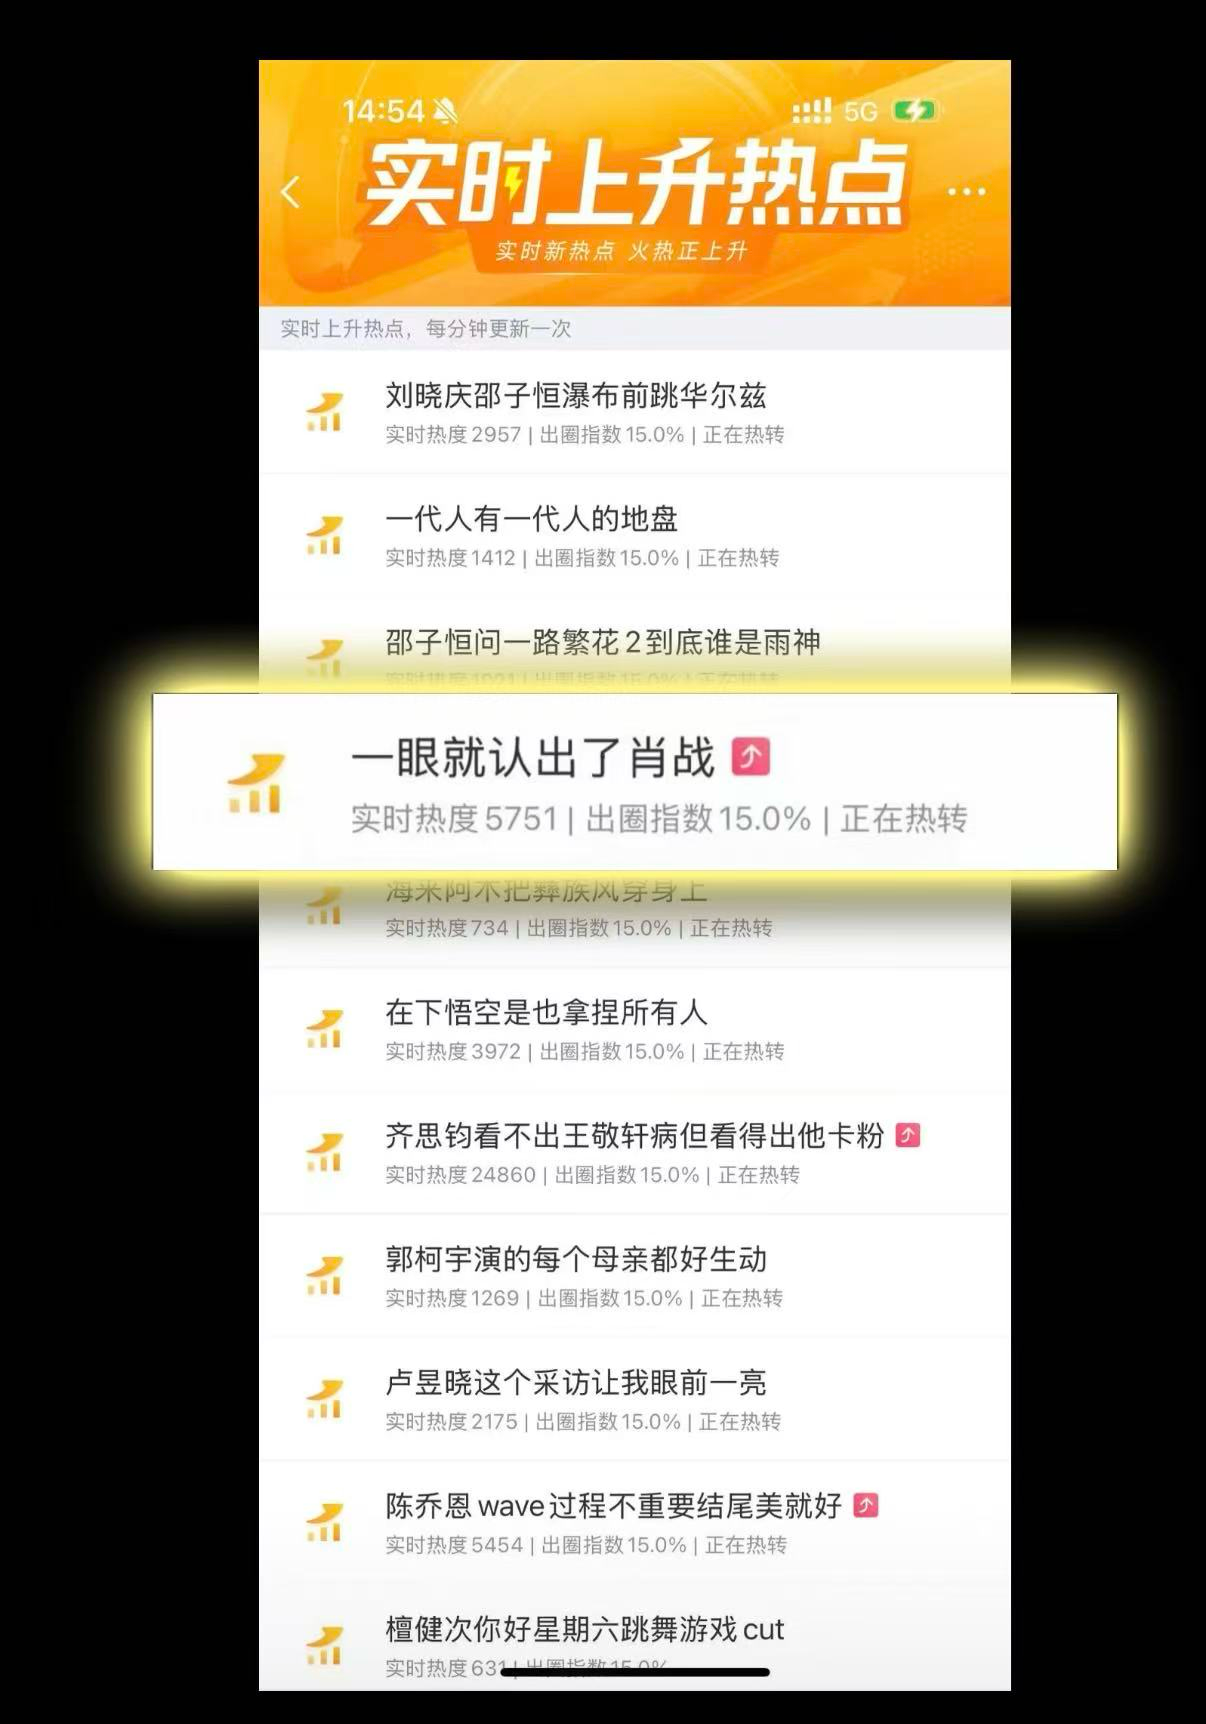
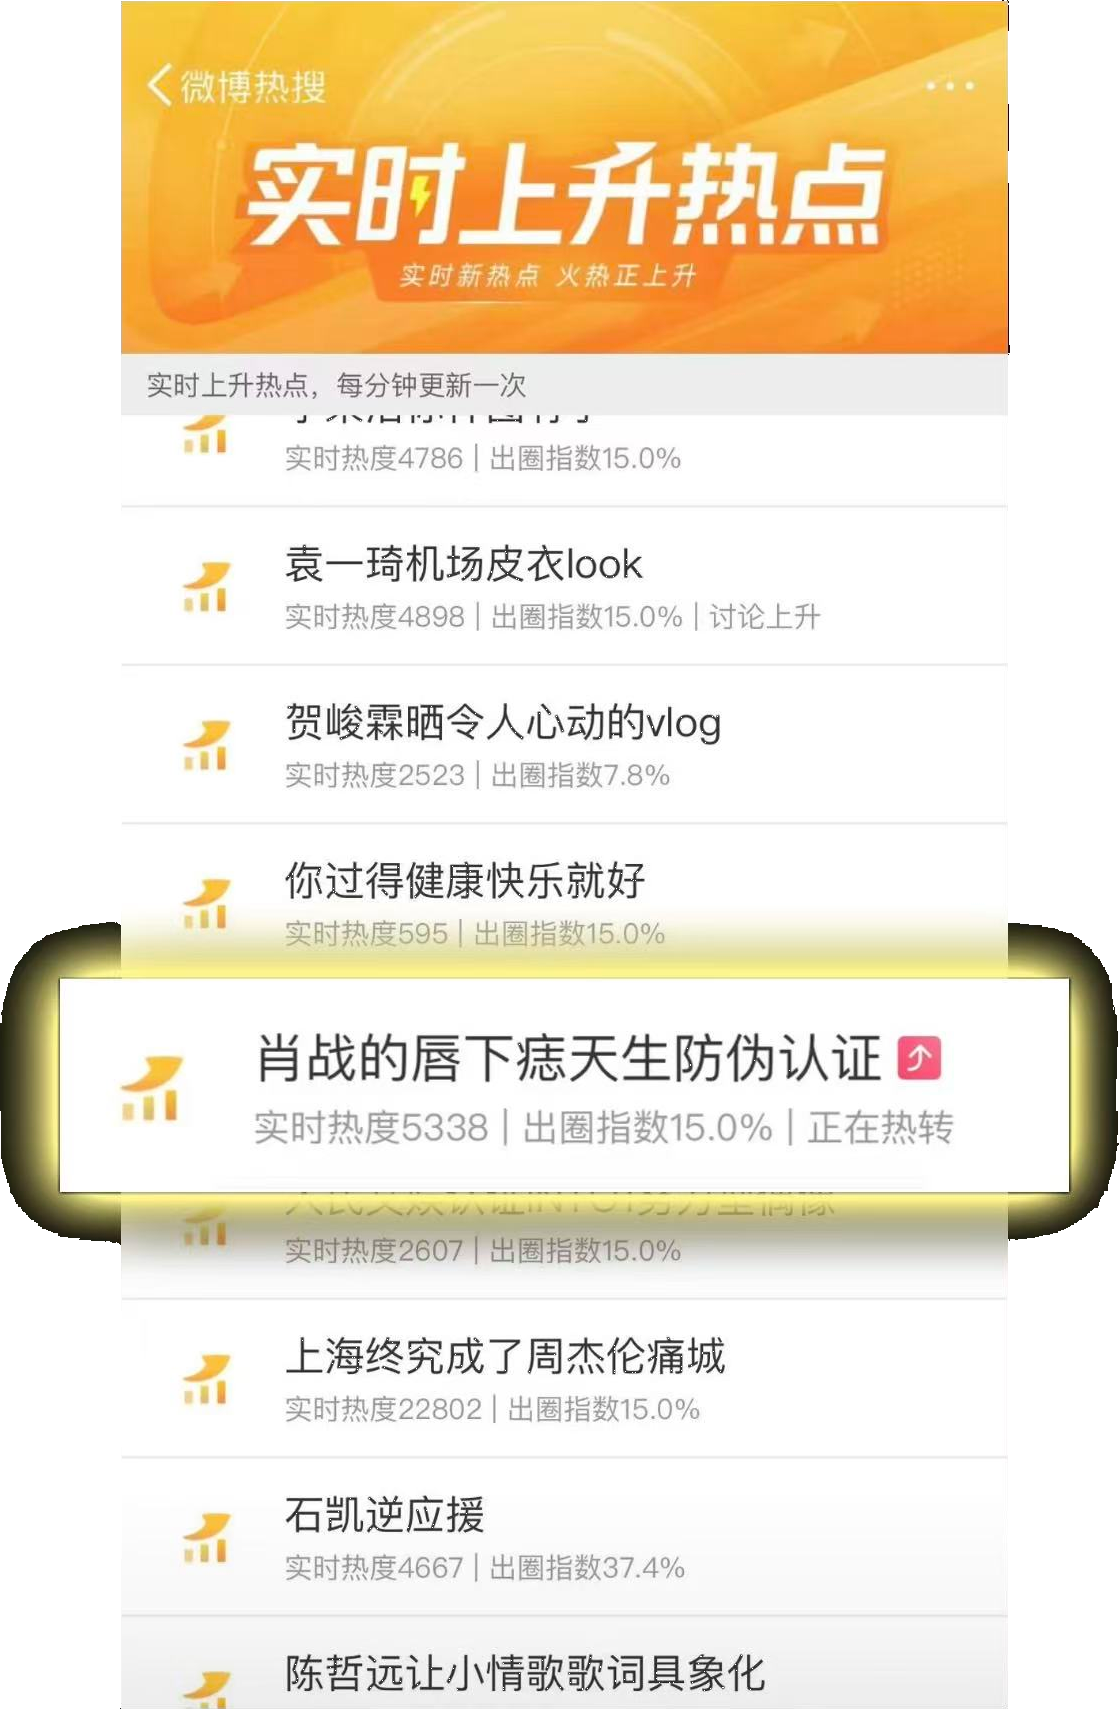
refine campaign evidence and video previews

diff --git a/app/campaigns/CampaignDetailPage.tsx b/app/campaigns/CampaignDetailPage.tsx
@@ -67,12 +67,14 @@ const muradVideos = [
   {
     index: "01",
     title: "高表现内容案例 01",
+    poster: "/murad-video-cover-01.jpg",
     url: "https://v.douyin.com/zIcI1l36zpM/",
     likes: "12.3万",
   },
   {
     index: "02",
     title: "高表现内容案例 02",
+    poster: "/murad-video-cover-02.jpg",
     url: "https://v.douyin.com/u8YC94-ahcM/",
     likes: "1.9万",
   },
@@ -164,9 +166,7 @@ function ExternalVideoShowcase() {
               <div className="case-iphone-screen case-external-video-screen">
                 <span className="case-dynamic-island" aria-hidden="true" />
                 <a className="case-external-video-preview" href={video.url} target="_blank" rel="noreferrer">
-                  <span>抖音高表现内容</span>
-                  <strong>{video.title}</strong>
-                  <b>打开视频 ↗</b>
+                  <img src={video.poster} alt={`${video.title}视频封面`} />
                 </a>
               </div>
             </div>
@@ -200,20 +200,22 @@ const meituanHotspots = [
 
 function MeituanHotspotProof() {
   return (
-    <section className="case-hotspot-proof">
-      <header>
-        <span>WEIBO RISING TOPICS / 02</span>
-        <h3>微博上升热点词条一览</h3>
+    <details className="case-video-showcase case-hotspot-showcase">
+      <summary>
+        <span className="case-video-toggle-copy">
+          <small>WEIBO RISING TOPICS / 02</small>
+          <strong>微博上升热点词条一览</strong>
+        </span>
+        <span className="case-video-chevrons" aria-hidden="true"><i /><i /></span>
+      </summary>
+      <div className="case-hotspot-proof-content">
         <p>两条内容进入微博实时上升热点。</p>
-      </header>
-      <details className="case-inline-details">
-        <summary><span>展开查看热点词条</span><b aria-hidden="true">↘</b></summary>
         <div className="case-hotspot-grid">
           {meituanHotspots.map((hotspot, index) => (
             <article className="case-hotspot-poster" key={hotspot.index} tabIndex={0}>
               <span className="case-paperclip" aria-hidden="true" />
               <figure>
-                <img className="case-hotspot-transparent" src={hotspot.image} alt={`微博实时上升热点截图：${hotspot.term}`} />
+              <img src={hotspot.image} alt={`微博实时上升热点截图：${hotspot.term}`} />
               </figure>
               <div className="case-hotspot-zoom">
                 <small>RISING TOPIC / {hotspot.index}</small>
@@ -224,22 +226,28 @@ function MeituanHotspotProof() {
             </article>
           ))}
         </div>
-      </details>
-    </section>
+      </div>
+    </details>
   );
 }
 
 function MembershipEvidenceShowcase() {
   const evidence = [
-    ["/membership-evidence-new-01.png", "微博话题内容表现"],
-    ["/membership-evidence-new-02.png", "话题数据详情"],
-    ["/membership-evidence-new-03.png", "微博热搜 TOP17"],
+    ["/membership-evidence-new-01.png", "上榜图文"],
+    ["/membership-evidence-new-02.png", "生活榜TOP2"],
+    ["/membership-evidence-new-03.png", "热搜榜TOP17"],
   ];
   return (
-    <details className="case-evidence-showcase">
-      <summary><span><small>MEMBERSHIP DAY / EVIDENCE</small><strong>展开会员日内容案例</strong></span><b aria-hidden="true">↘</b></summary>
+    <details className="case-video-showcase case-evidence-showcase">
+      <summary>
+        <span className="case-video-toggle-copy">
+          <small>MEMBERSHIP DAY / EVIDENCE</small>
+          <strong>展开会员日内容案例</strong>
+        </span>
+        <span className="case-video-chevrons" aria-hidden="true"><i /><i /></span>
+      </summary>
       <div className="case-evidence-grid">
-        {evidence.map(([src, alt]) => <figure key={src}><img className={src.endsWith("03.png") ? "case-hotspot-transparent" : undefined} src={src} alt={alt} /></figure>)}
+        {evidence.map(([src, alt]) => <figure key={src}><img src={src} alt={alt} /><figcaption>{alt}</figcaption></figure>)}
       </div>
     </details>
   );
@@ -256,10 +264,10 @@ export function CampaignDetailPage({ campaign }: { campaign: CampaignCase }) {
         right: campaign.actions.slice(0, 3),
       }
     : {
-        leftTitle: isMurad ? "策划方向制定" : "项目挑战",
-        rightTitle: isMurad ? "内容制定" : "我的关键动作",
-        left: campaign.challenges,
-        right: campaign.actions,
+        leftTitle: isMurad ? "内容制定" : "项目挑战",
+        rightTitle: isMurad ? "策划方向制定" : "我的关键动作",
+        left: isMurad ? campaign.actions : campaign.challenges,
+        right: isMurad ? campaign.challenges : campaign.actions,
       };
   return (
     <main className={`inner-page campaigns-page campaign-detail-page campaign-detail-${campaign.slug}`}>
@@ -321,7 +329,7 @@ export function CampaignDetailPage({ campaign }: { campaign: CampaignCase }) {
 
           <section className="case-process">
             <span className="inner-section-label">03 / CHALLENGE &amp; ACTION</span>
-            <h3>关键动作与内容制定</h3>
+            <h3>{isMurad ? "关键动作与方向制定" : "关键动作与内容制定"}</h3>
             <div className="case-process-grid">
               <div>
                 <h4>{processColumns.leftTitle}</h4>

diff --git a/app/globals.css b/app/globals.css
@@ -2674,23 +2674,26 @@ main { overflow-x: clip; background: var(--black); }
 
 .case-evidence-showcase {
   margin-top: 34px;
-  padding: 26px;
+  padding: 0;
   border-radius: 30px;
   background: rgba(141, 98, 255, .12);
 }
-.case-evidence-showcase > summary { background: #d7ff32; }
-.case-evidence-showcase > summary span { display: flex; flex-direction: column; gap: 8px; }
-.case-evidence-showcase > summary small { color: rgba(12, 12, 12, .56); font-size: .56rem; font-weight: 900; letter-spacing: .16em; }
-.case-evidence-grid { margin-top: 24px; display: grid; grid-template-columns: repeat(3, minmax(0, 1fr)); gap: 16px; }
-.case-evidence-grid figure { overflow: hidden; border-radius: 18px; background: #f4f0e8; }
-.case-evidence-grid img { width: 100%; height: 100%; display: block; object-fit: cover; }
+.case-evidence-grid { padding: clamp(26px, 4vw, 54px); display: grid; grid-template-columns: repeat(3, minmax(0, 1fr)); gap: 16px; }
+.case-evidence-grid figure { min-width: 0; overflow: hidden; border: 1px solid rgba(215, 226, 234, .14); border-radius: 18px; background: #f4f0e8; }
+.case-evidence-grid img { width: 100%; height: auto; max-height: 560px; display: block; object-fit: contain; }
+.case-evidence-grid figcaption { padding: 14px 16px 16px; color: var(--case-accent); font-size: .68rem; font-weight: 900; letter-spacing: .08em; }
 
-.case-external-video-screen { background: linear-gradient(145deg, #141116, #352448 55%, #d7ff32); }
-.case-external-video-preview { width: 100%; height: 100%; padding: 28px 20px; display: flex; flex-direction: column; justify-content: flex-end; gap: 12px; color: #fff; text-decoration: none; background: linear-gradient(180deg, transparent 26%, rgba(0,0,0,.72)); }
-.case-external-video-preview span { color: var(--case-accent); font-size: .58rem; font-weight: 900; letter-spacing: .1em; }
-.case-external-video-preview strong { font-size: 1.35rem; line-height: 1.1; }
-.case-external-video-preview b { font-size: .72rem; }
-.case-external-video-preview:hover strong { color: var(--case-accent); }
+.case-hotspot-showcase { margin-top: 34px; }
+.case-hotspot-proof-content { padding: clamp(26px, 4vw, 54px); }
+.case-hotspot-proof-content > p { margin-bottom: 28px; color: rgba(215, 226, 234, .64); font-size: .82rem; font-weight: 650; }
+.case-hotspot-proof-content .case-hotspot-grid { padding: 0; }
+
+.case-external-video-screen { background: #000; }
+.case-external-video-preview { position: relative; width: 100%; height: 100%; padding: 0; display: block; color: #fff; text-decoration: none; background: #000; }
+.case-external-video-preview img { width: 100%; height: 100%; display: block; object-fit: cover; }
+.case-external-video-play { position: absolute; left: 50%; top: 50%; width: 70px; height: 70px; border: 1px solid rgba(255, 255, 255, .72); border-radius: 50%; background: rgba(7, 7, 7, .34); box-shadow: 0 12px 34px rgba(0, 0, 0, .34); transform: translate(-50%, -50%); }
+.case-external-video-play::before { content: ""; position: absolute; top: 50%; left: 53%; border-top: 10px solid transparent; border-bottom: 10px solid transparent; border-left: 16px solid #fff; transform: translate(-50%, -50%); }
+.case-external-video-preview:hover .case-external-video-play { background: rgba(var(--case-accent-rgb), .68); transform: translate(-50%, -50%) scale(1.08); }
 
 .case-paperclip {
   position: absolute;
@@ -3467,7 +3470,7 @@ main { overflow-x: clip; background: var(--black); }
   .case-result-grid { grid-template-columns: 1fr 1fr; }
   .case-result-grid div { min-height: 135px; }
   .case-evidence-grid { grid-template-columns: 1fr; }
-  .case-evidence-showcase { padding: 18px; }
+  .case-evidence-showcase { padding: 0; }
   .case-video-showcase { border-radius: 28px; }
   .case-video-showcase > summary { min-height: 88px; padding: 20px; }
   .case-video-chevrons { width: 42px; height: 42px; flex: 0 0 auto; }
